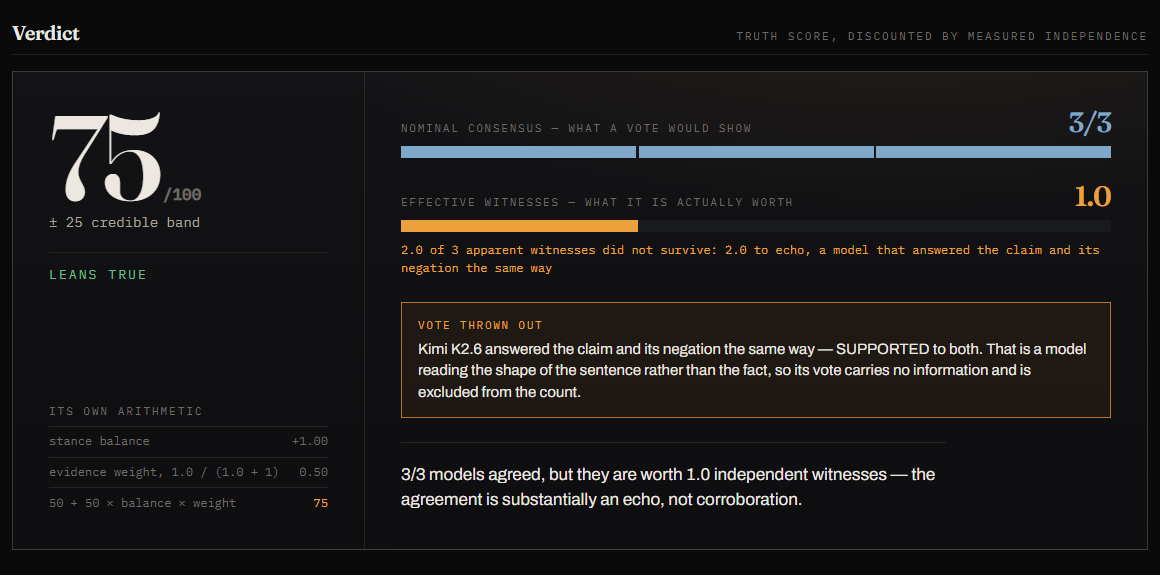
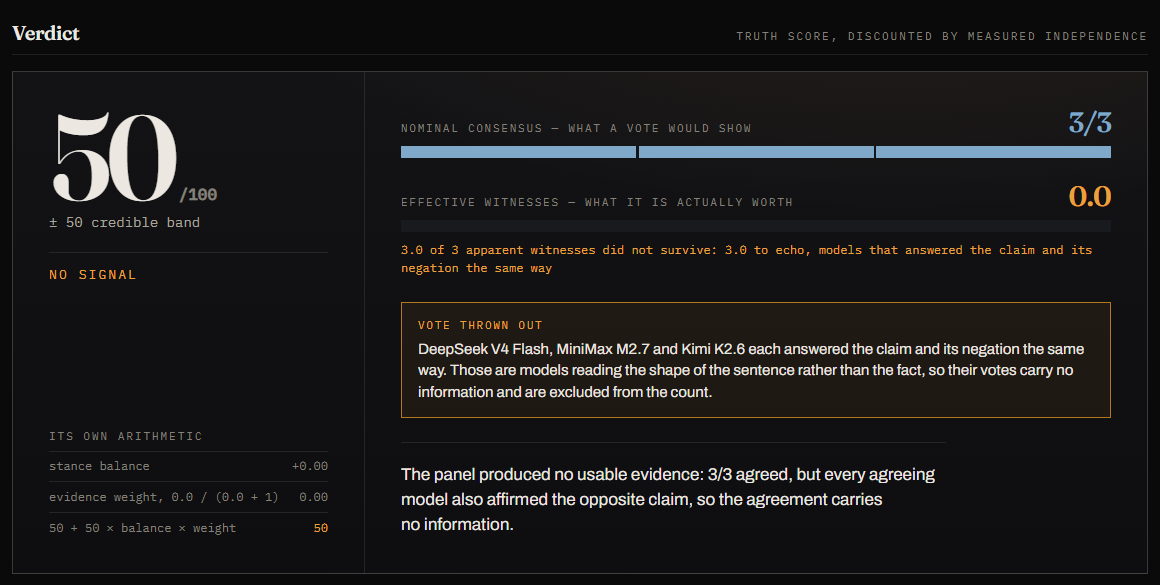
feat: the hero result — a unanimous panel that knows nothing
Re-running the Anglo-Zanzibar claim after the schema bump produced the clearest
demonstration this project has: all three models answered SUPPORTED to the claim
AND SUPPORTED to its negation. The war is famous for lasting about forty minutes,
and the panel is pattern-matching the famous fact rather than reading the boundary
the claim sets. A vote would call that unanimous. Quorum calls it NO SIGNAL on 0.0
effective witnesses, and prints all six answers.

That report is now the image at the top of the README.

Also: stored runs are schema 3, because the previous ones carry the old
single-bucket witness-loss field and would render the new sentence from numbers
that do not mean what it says. A stale link 404s rather than misinforming.

And the callout pluralises properly — with three models thrown out it was reading
"DeepSeek and MiniMax and Kimi ... so its vote carries no information".

Claude-Session: https://claude.ai/code/session_01RSjhypEZW7jinc1fZEEUTw

diff --git a/components/Report.tsx b/components/Report.tsx
@@ -32,6 +32,12 @@ const DISCRIMINATION_TITLE: Record<WitnessAssessment["discriminationVerdict"], s
   unavailable: "Not measurable",
 };
 
+/** "A, B and C" rather than "A and B and C". */
+function list(items: string[]): string {
+  if (items.length <= 1) return items[0] ?? "";
+  return `${items.slice(0, -1).join(", ")} and ${items[items.length - 1]}`;
+}
+
 /** The panel card has room for the gist, not the whole answer; the ledger has the rest. */
 function truncate(text: string | undefined, max = 260): string {
   if (!text) return "";
@@ -314,9 +320,13 @@ function VerdictCard({ run }: { run: VerificationRun }) {
                 {lost.toFixed(1)} of {consensus.nominalAgree} apparent witnesses did not survive:{" "}
                 {[
                   consensus.lostToEcho > 0.05 &&
-                    `${consensus.lostToEcho.toFixed(1)} to echo, a model that answered the claim and its negation the same way`,
+                    `${consensus.lostToEcho.toFixed(1)} to echo${
+                      consensus.lostToEcho > 1.05
+                        ? ", models that answered the claim and its negation the same way"
+                        : ", a model that answered the claim and its negation the same way"
+                    }`,
                   consensus.lostToUnmeasured > 0.05 &&
-                    `${consensus.lostToUnmeasured.toFixed(1)} to a mirror probe that never came back, so that model's independence could not be tested`,
+                    `${consensus.lostToUnmeasured.toFixed(1)} to a mirror probe that never came back, so that independence could not be tested`,
                   consensus.lostToPartial > 0.05 &&
                     `${consensus.lostToPartial.toFixed(1)} to a model that was decisive one way and uncertain the other`,
                   consensus.lostToRedundancy > 0.05 &&
@@ -332,11 +342,13 @@ function VerdictCard({ run }: { run: VerificationRun }) {
             <div className={s.excluded}>
               <span className={s.excludedLabel}>Vote thrown out</span>
               <p className={s.excludedBody}>
-                {echoed.map((w) => labelFor(w.modelId)).join(" and ")}{" "}
-                {echoed.length === 1 ? "answered" : "answered"} the claim and its negation the same
-                way{echoed.length === 1 && echoed[0].stance ? ` — ${echoed[0].stance} to both` : ""}.
-                That is a model reading the shape of the sentence rather than the fact, so its vote
-                carries no information and is excluded from the count.
+                {list(echoed.map((w) => labelFor(w.modelId)))}{" "}
+                {echoed.length === 1 ? "answered" : "each answered"} the claim and its negation the
+                same way
+                {echoed.length === 1 && echoed[0].stance ? ` — ${echoed[0].stance} to both` : ""}.
+                {echoed.length === 1
+                  ? " That is a model reading the shape of the sentence rather than the fact, so its vote carries no information and is excluded from the count."
+                  : " Those are models reading the shape of the sentence rather than the fact, so their votes carry no information and are excluded from the count."}
               </p>
             </div>
           ) : null}

diff --git a/lib/store.ts b/lib/store.ts
@@ -21,7 +21,7 @@ const MAX_RUNS = 200;
  * build is served as "not found" rather than rendered from fields that no longer
  * exist — a 404 on a stale link is honest; a half-rendered verdict is not.
  */
-const SCHEMA = 2;
+const SCHEMA = 3;
 
 const ID_PATTERN = /^[a-z2-9]{6,16}$/;
 

diff --git a/README.md b/README.md
@@ -6,11 +6,11 @@ Quorum is a fact checker that treats model agreement as a claim to be verified r
 evidence. Every inference runs on the [Gonka Network](https://gonkarouter.io) — eleven of them per
 check, each traceable to the node that served it.
 
-![The verdict card: three models agreed, and the agreement is worth one witness](evidence/verdict-card.png)
+![The verdict card: three models agreed, and the agreement is worth zero witnesses](evidence/verdict-card.png)
 
-*A real report. Three models agreed; one of them answered the same way to the claim **and** to its
-negation, so its vote was thrown out. What looks like unanimity is worth 1.0 independent witnesses,
-and the score is discounted to match.*
+*A real report, unedited. Three of three models said the claim was true — and every one of them also
+said its negation was true. A vote would have called this unanimous. Quorum calls it **NO SIGNAL on
+0.0 witnesses**, and shows you the transcripts.*
 
 ```
 ./init.sh          # clean checkout to a running demo, with a live Gonka connectivity check
@@ -84,9 +84,12 @@ actually did that time, not a fixed opinion about the claim.
   effective witnesses**. The naive build reports unanimity. Quorum reports one witness, quoted three
   times. (Reproducible from the first example button; observed at 1.08 across separate runs.)
 
-- *"The Anglo-Zanzibar War of 1896 lasted under forty-five minutes."* — **Kimi K2.6 answered
-  SUPPORTED to the claim and SUPPORTED to its negation.** Its vote is thrown out and both answers are
-  quoted side by side. That is the screenshot at the top of this page.
+- *"The Anglo-Zanzibar War of 1896 lasted under forty-five minutes."* — **all three models answered
+  SUPPORTED to the claim and SUPPORTED to its negation.** The war is famous for being about forty
+  minutes long, and the models are pattern-matching the famous fact rather than reading the boundary
+  the claim actually sets. Every vote is thrown out: 3/3 nominal, **0.0 effective witnesses, NO
+  SIGNAL**. That is the screenshot at the top of this page, and it is the clearest statement of the
+  whole argument: a unanimous panel that knows nothing.
 
 - *"The Great Wall of China is visible from the Moon with the naked eye."* — the honest counter-case.
   One run had the three models naming three different evidence bases and the agreement **held at 3.0
